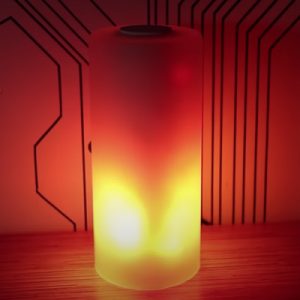
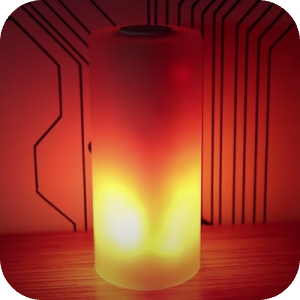
U

diff --git a/README.md b/README.md
@@ -1,5 +1,5 @@
 # Приложение GVR Lamp
-<img src="https://github.com/Kazachmak/GVRLamp/blob/master/icon.png" align="center" height="40" width="40">
+<img src="https://github.com/Kazachmak/GVRLamp/blob/master/icon.png" align="center" height="100" width="100">
 
 <img src="https://github.com/Kazachmak/GVRLamp/blob/master/demo1.gif" width="250"/>  <img src="https://github.com/Kazachmak/GVRLamp/blob/master/demo2.gif" width="250"/>  <img src="https://github.com/Kazachmak/GVRLamp/blob/master/demo3.gif" width="250"/>
 
